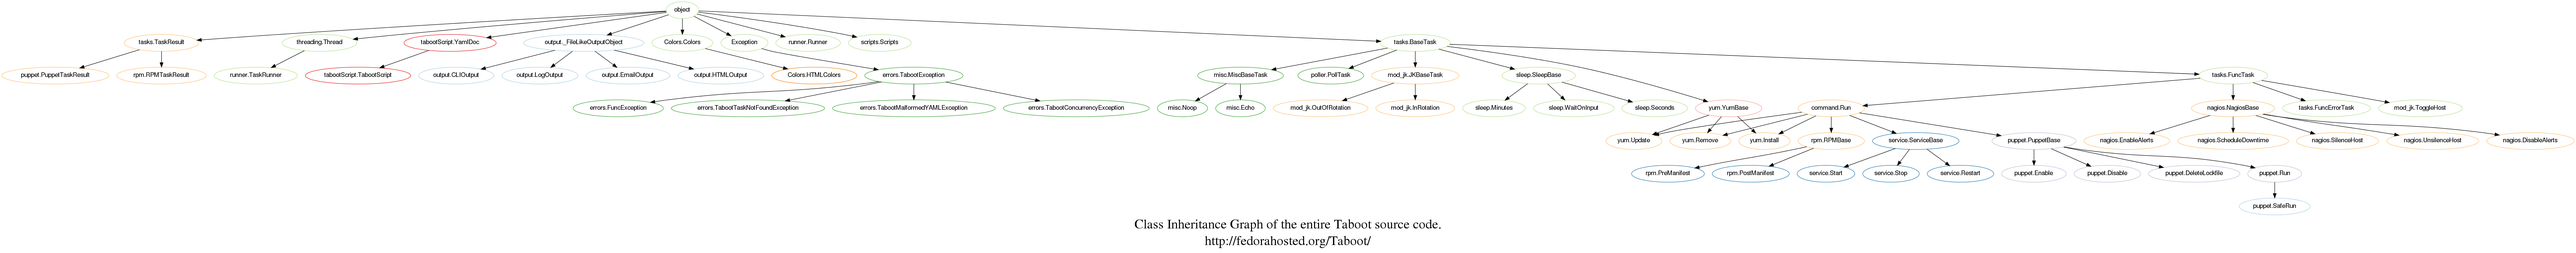
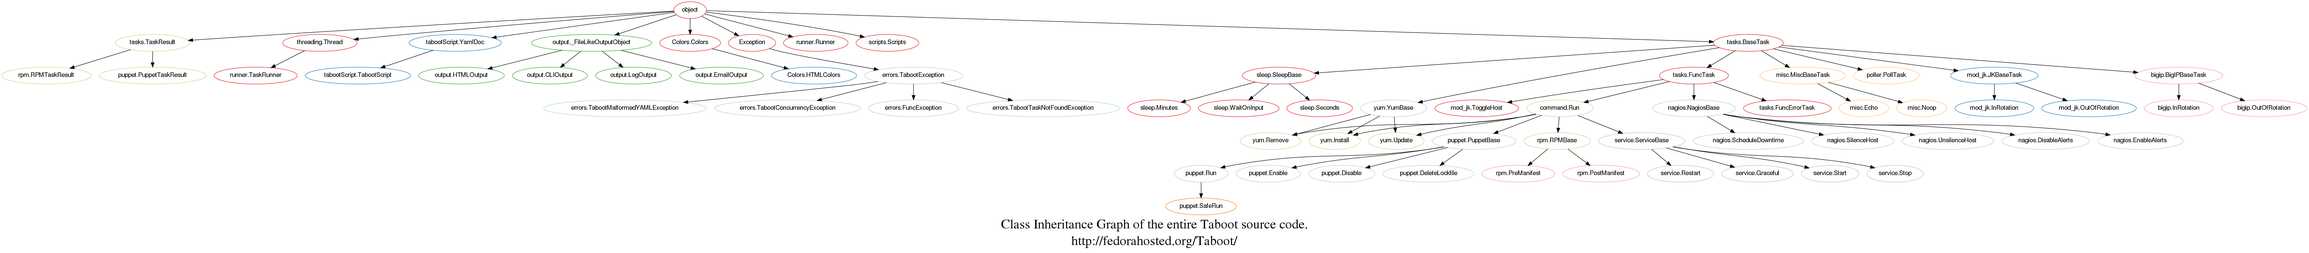
Update graph

diff --git a/taboot/tasks/service.py b/taboot/tasks/service.py
@@ -61,7 +61,7 @@ class Restart(ServiceBase):
         super(Restart, self).__init__('service %s restart' % service, **kwargs)
 
 
-class Graceful(command.Run):
+class Graceful(ServiceBase):
     """
     Gracefully restart a service.
 
